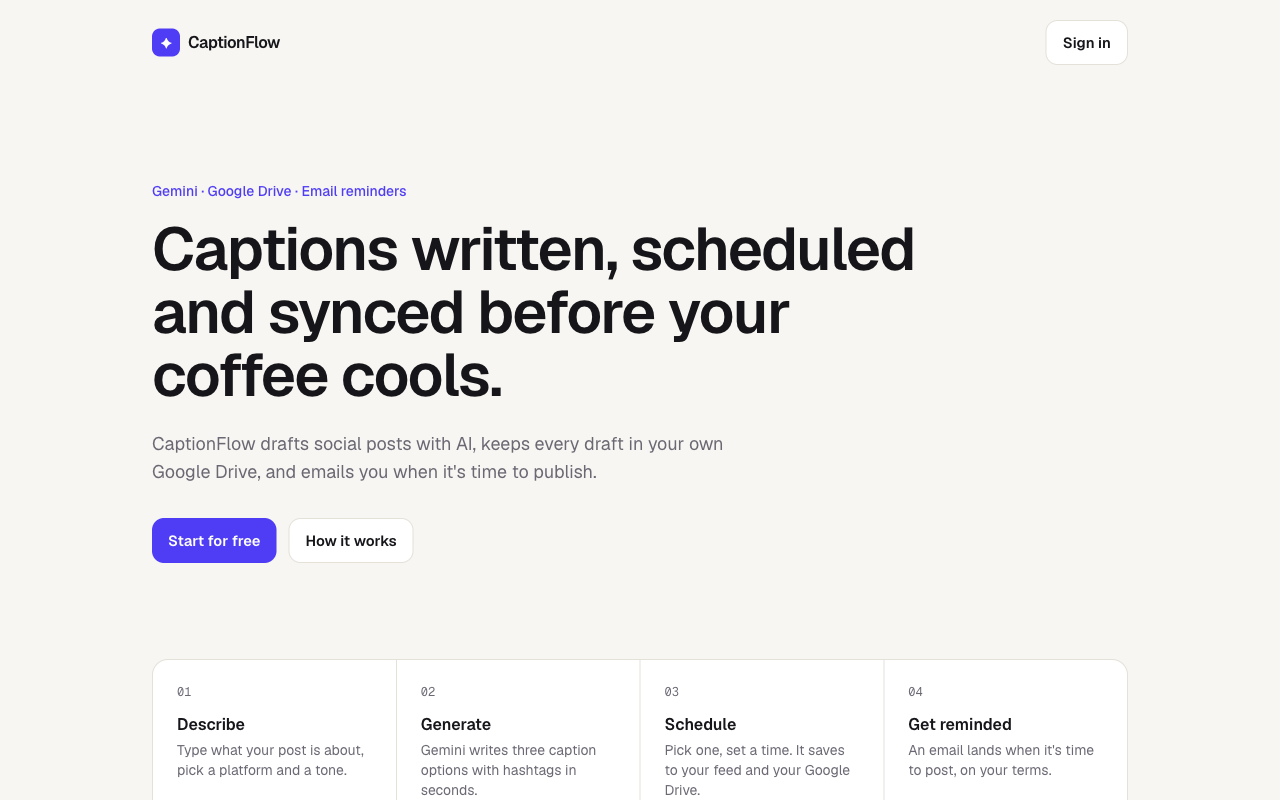
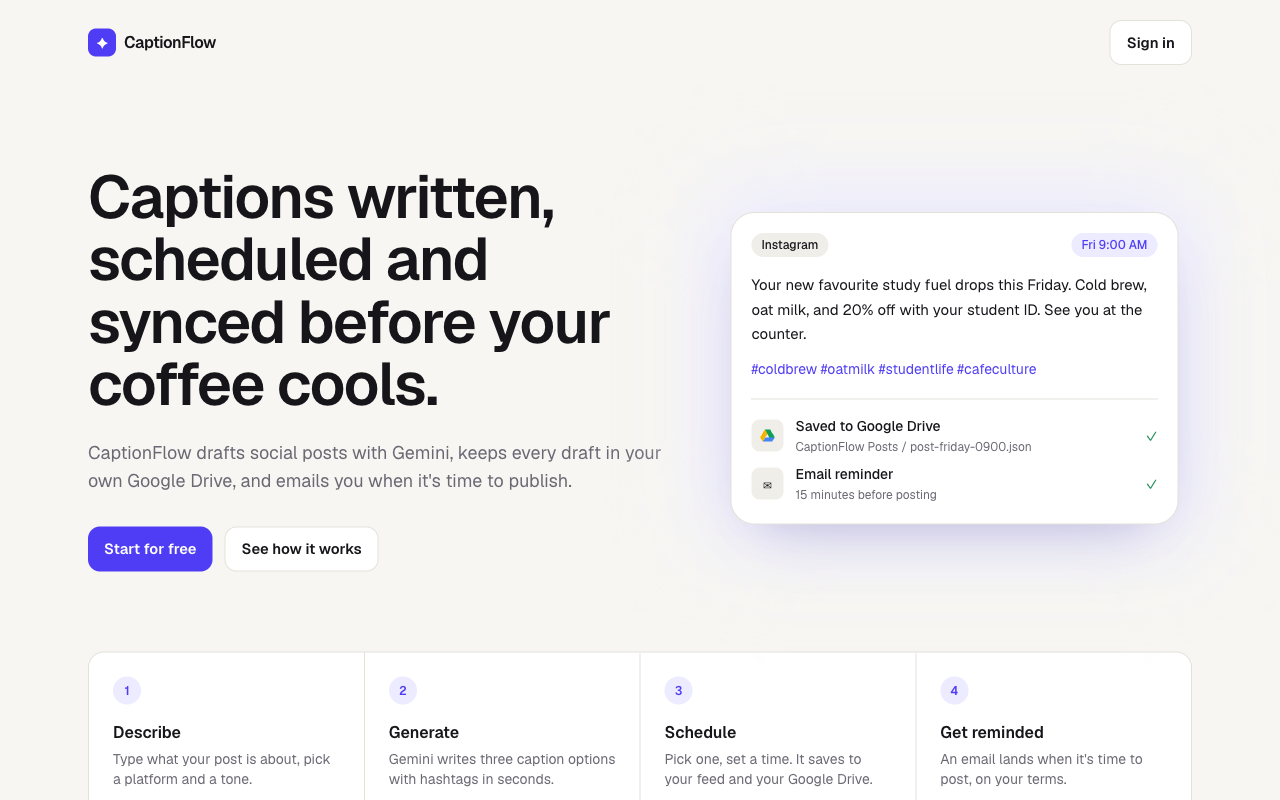
Fix mobile horizontal overflow, refresh screenshots and README

diff --git a/src/app/page.tsx b/src/app/page.tsx
@@ -10,7 +10,7 @@ const steps = [
 
 export default function Home() {
   return (
-    <main className="mx-auto flex w-full max-w-6xl flex-1 flex-col px-4 sm:px-6">
+    <main className="mx-auto flex w-full max-w-6xl flex-1 flex-col overflow-x-clip px-4 sm:px-6">
       <header className="flex items-center justify-between py-5">
         <Logo />
         <Link href="/login" className="btn btn-ghost">

diff --git a/README.md b/README.md
@@ -16,7 +16,7 @@ Built for **V-Spark 2026 — Web Development (1-Hour Challenge)**.
 
 1. **AI caption generator** — describe a post, pick a platform and tone, and Google **Gemini** returns 3 caption options with hashtags.
 2. **Google Drive storage & scheduler** — pick a caption, edit it, choose a date/time, add notes and an optional image, then save. The post is stored in the database **and** synced as a JSON file into a `CaptionFlow Posts` folder in the user's own Google Drive.
-3. **Feed / list preview** — all saved posts with status (Scheduled / Reminder sent), filters, **edit** (caption, hashtags, time, notes) and **delete** (also removes the Drive file and image).
+3. **Feed / list preview** — summary (upcoming, next post, Drive status) and all saved posts with status (Scheduled / Reminder sent), filters, **copy**, **open in Drive**, **edit** (caption, hashtags, time, notes) and **delete** (also removes the Drive file and image). Character counter checks each platform's limit (e.g. 280 for X).
 4. **Email notifications & customization** — an automatic email for every scheduled post. Users choose on/off, recipient address, timing (at the time, 15 min, 1 hour or 1 day before), subject prefix and whether hashtags are included, plus per-post notes. "Send test email" checks delivery instantly.
 5. **Deployment** — live on Vercel.
 
@@ -29,7 +29,8 @@ Built for **V-Spark 2026 — Web Development (1-Hour Challenge)**.
 | Generate captions with Gemini, pick one, schedule, attach image | ![Generate](docs/screenshots/03-generate-and-schedule.png) |
 | Feed with edit / delete and status | ![Feed](docs/screenshots/04-posts-feed.png) |
 | Email notification settings | ![Notifications](docs/screenshots/05-notifications.png) |
-| Mobile (responsive) | ![Mobile](docs/screenshots/06-mobile.png) |
+| Mobile app (responsive) | ![Mobile](docs/screenshots/06-mobile.png) |
+| Mobile landing page | ![Mobile landing](docs/screenshots/07-mobile-landing.png) |
 
 ## Tech stack
 
